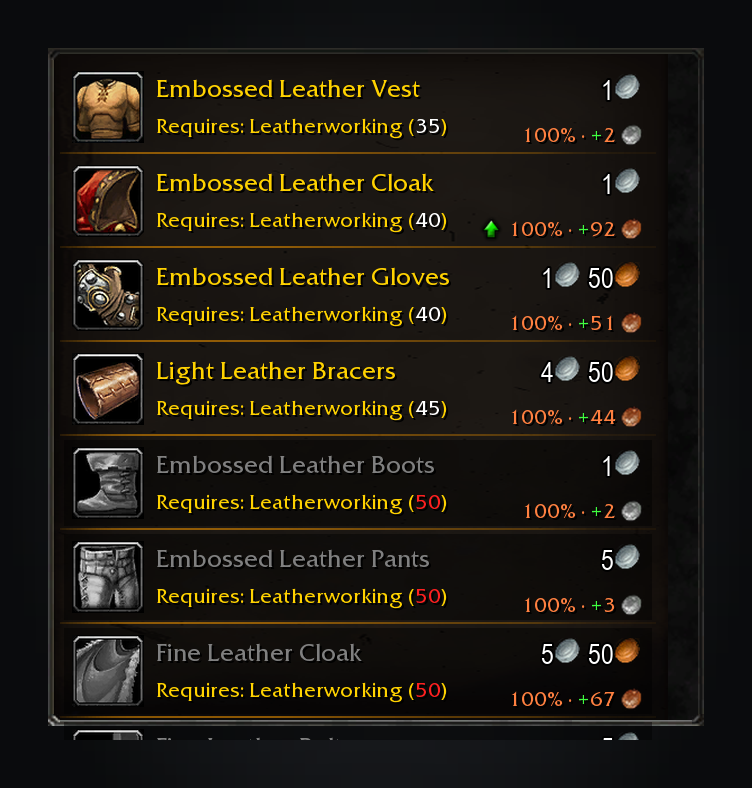
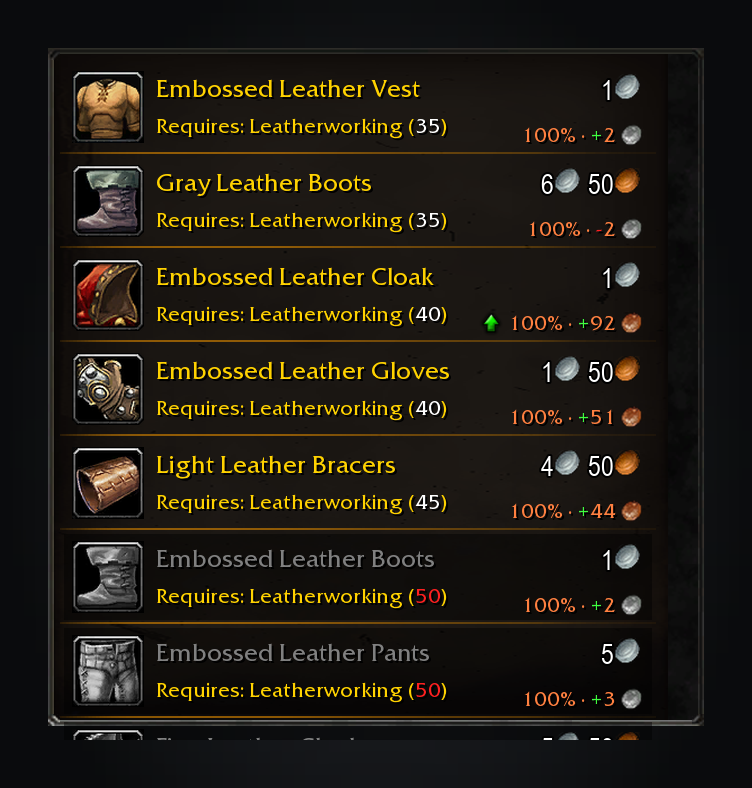
chore(release): 1.1.1 (#433)
Release 1.1.1: Gray Leather Boots plan from Leatherworking 35, as the
trainer teaches them (#124, landed in #429).

```mermaid
flowchart LR
  M["main with #429"] --> C["CHANGELOG 1.1.1"] --> T["v1.1.1 tag"] --> S["GitHub, CurseForge, Wago"]
```

Checks: `tools/changelog.py --check 1.1.1`, `--check`, `check_locales.py
--release`.

🤖 Generated with [Claude Code](https://claude.com/claude-code)

https://claude.ai/code/session_01UkMWryBPLMqYg6v3tZqiqE

---------

diff --git a/CHANGELOG.md b/CHANGELOG.md
@@ -12,7 +12,10 @@ optional `### For addon authors` subsection after a version's player bullets.
 
 ## [Unreleased]
 
-- **Gray Leather Boots plan from Leatherworking 35, as the trainer teaches them.** A Leatherworking trainer lists the pattern at 35, where the bundled guess said 75 (Classic's 100 moved as far as Forever moved its skill range). The same visit confirmed the bundled requirement of the eight other moved Leatherworking recipes that trainer teaches, so only this one changes (#124).
+## [1.1.1] - 2026-11-08
+
+- **A Leatherworking pattern now plans from the skill its trainer teaches it at.** Gray Leather Boots plan from Leatherworking 35, as a Leatherworking trainer lists them, where the bundled guess said 75 (Classic's 100 moved as far as Forever moved its skill range). The same visit confirmed the bundled requirement of the eight other moved Leatherworking recipes that trainer teaches, so only this one changes (#124).
+
 ## [1.1.0] - 2026-11-08
 
 - **The tracker can have a background.** Right-click any section's title in the Forever tracker and pick *Tracker background*: Off, or the game's tooltip fill at 25, 50, 75 or 100%, so quest text stays readable over bright ground. The choice is shared by every Forever addon in the column (cjber/forever-core#246).
